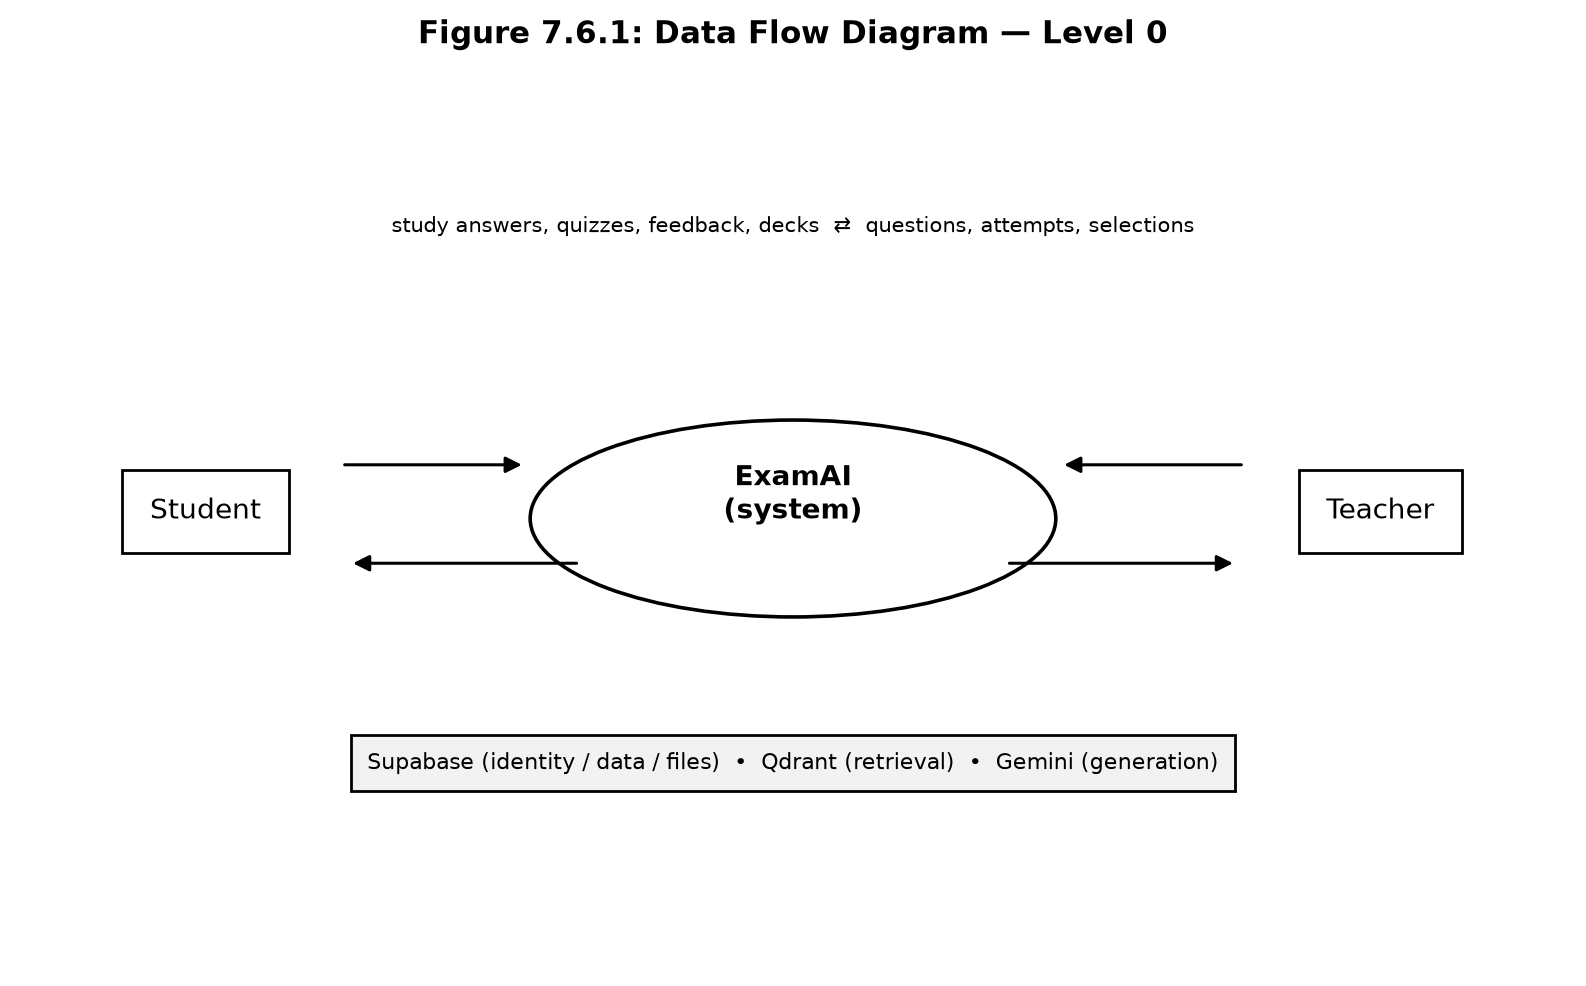
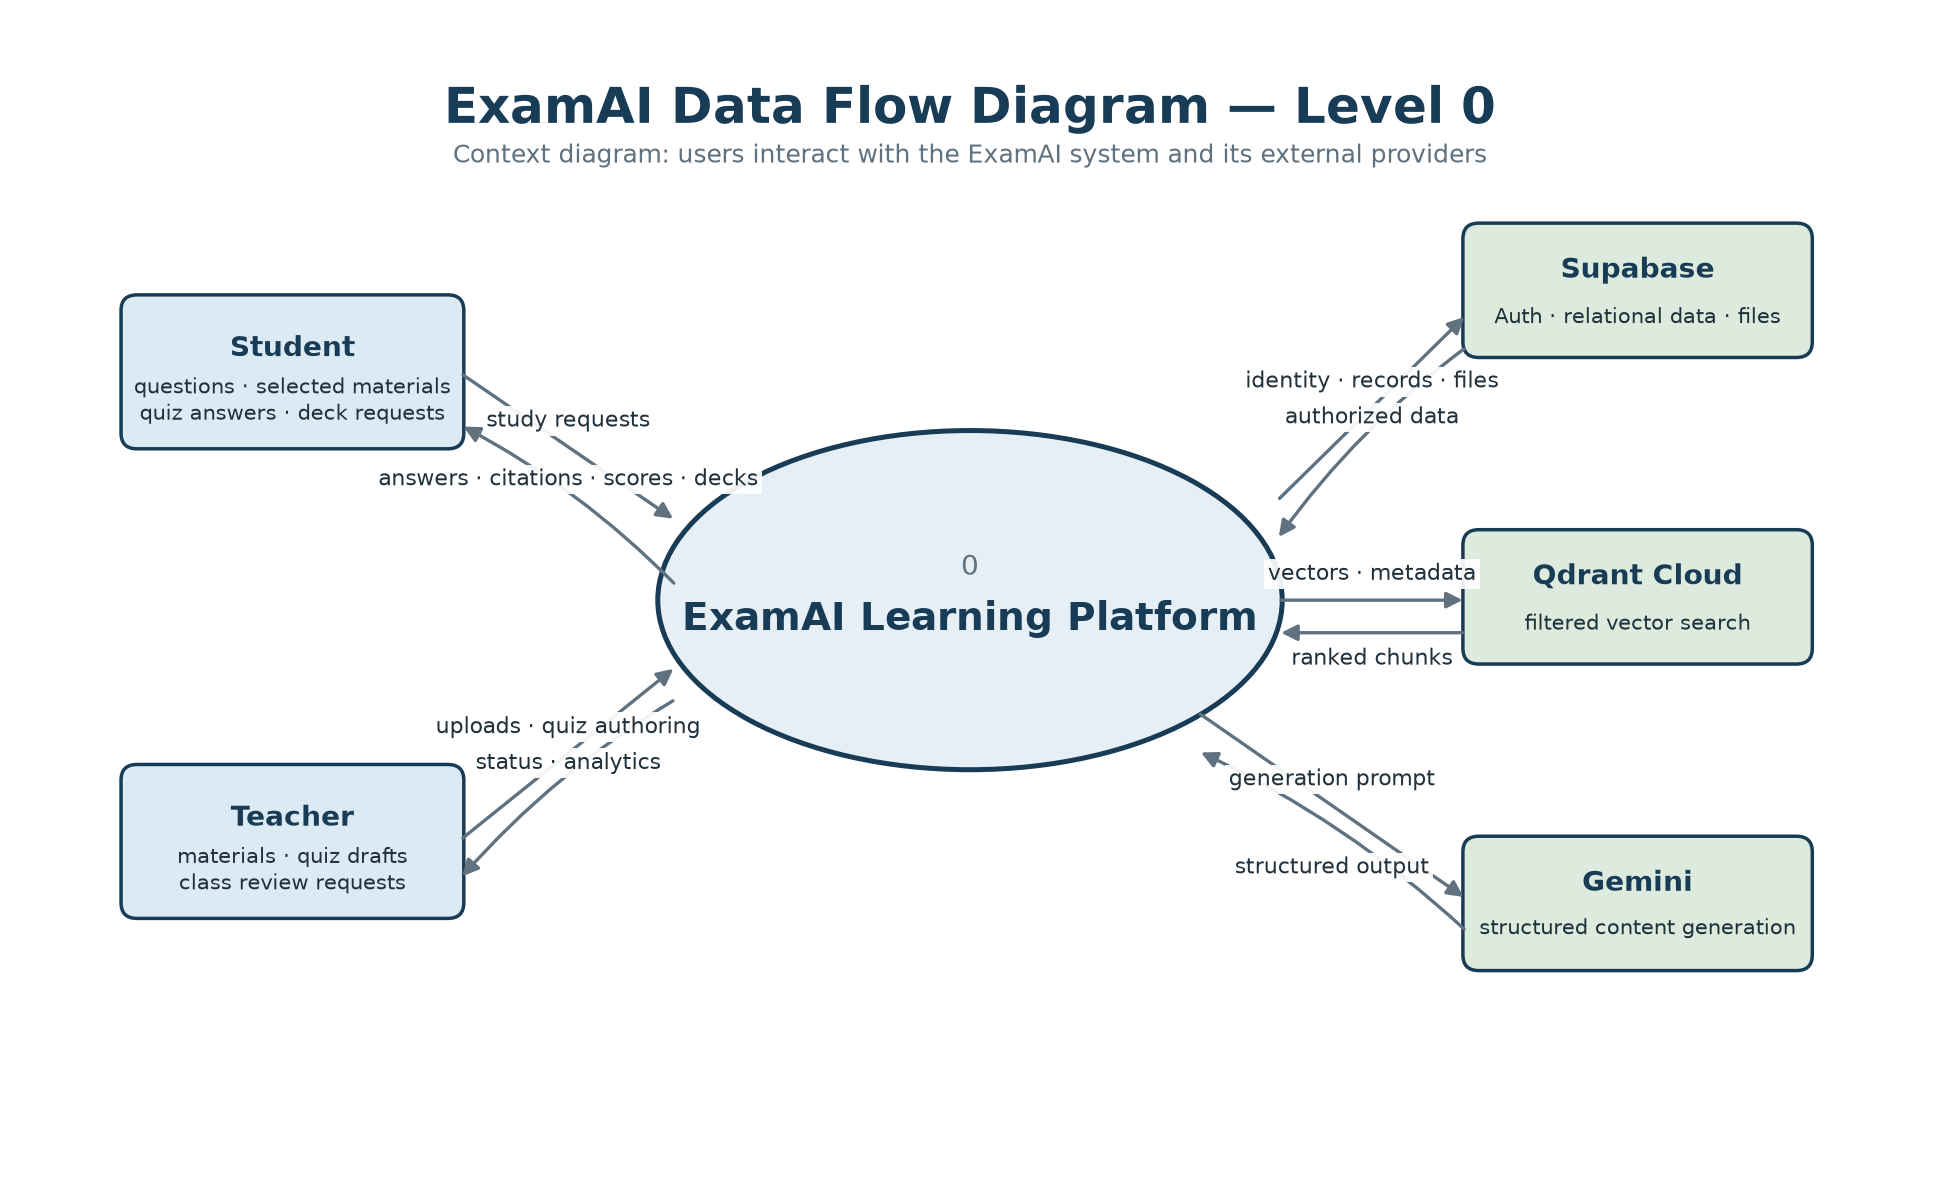
figures generated

diff --git a/SGP Report/Report Draft/generate_figures.py b/SGP Report/Report Draft/generate_figures.py
@@ -1,0 +1,367 @@
+"""Generate the Chapter 7 ExamAI diagrams as clean academic report figures.
+
+Run from the repository root with backend/venv/bin/python.
+"""
+from pathlib import Path
+
+import matplotlib
+
+matplotlib.use("Agg")
+import matplotlib.pyplot as plt
+from matplotlib.patches import FancyBboxPatch, Ellipse, Polygon, FancyArrowPatch
+
+
+OUT = Path(__file__).parent / "figures"
+OUT.mkdir(exist_ok=True)
+
+NAVY = "#183B56"
+BLUE = "#DCEAF4"
+PALE = "#F3F6F8"
+INK = "#23313B"
+GRAY = "#60717F"
+GOLD = "#F2C66D"
+GREEN = "#DCEBDD"
+RED = "#F3DDDA"
+WHITE = "#FFFFFF"
+
+plt.rcParams.update({
+    "font.family": "DejaVu Sans",
+    "font.size": 10,
+    "text.color": INK,
+    "axes.labelcolor": INK,
+})
+
+
+def canvas(title, subtitle=None, size=(11, 8), ylim=(0, 10)):
+    fig, ax = plt.subplots(figsize=size)
+    fig.patch.set_facecolor(WHITE)
+    ax.set_facecolor(WHITE)
+    ax.set_xlim(0, 14)
+    ax.set_ylim(*ylim)
+    ax.axis("off")
+    ax.text(7, ylim[1] - .35, title, ha="center", va="top", fontsize=18,
+            weight="bold", color=NAVY)
+    if subtitle:
+        ax.text(7, ylim[1] - .8, subtitle, ha="center", va="top", fontsize=9,
+                color=GRAY)
+    return fig, ax
+
+
+def box(ax, x, y, w, h, title, detail="", fc=PALE, ec=NAVY, title_size=10,
+        detail_size=8, radius=.12, lw=1.25):
+    patch = FancyBboxPatch((x, y), w, h,
+                           boxstyle=f"round,pad=0.04,rounding_size={radius}",
+                           facecolor=fc, edgecolor=ec, linewidth=lw)
+    ax.add_patch(patch)
+    ax.text(x+w/2, y+h*.66 if detail else y+h/2, title, ha="center", va="center",
+            fontsize=title_size, weight="bold", color=NAVY, wrap=True)
+    if detail:
+        ax.text(x+w/2, y+h*.30, detail, ha="center", va="center",
+                fontsize=detail_size, color=INK, wrap=True, linespacing=1.25)
+    return patch
+
+
+def arrow(ax, x1, y1, x2, y2, label=None, color=GRAY, rad=0, style="-|>", lw=1.2,
+          label_offset=(0, .15), linestyle="-"):
+    p = FancyArrowPatch((x1, y1), (x2, y2), arrowstyle=style,
+                        connectionstyle=f"arc3,rad={rad}", mutation_scale=12,
+                        linewidth=lw, color=color, linestyle=linestyle)
+    ax.add_patch(p)
+    if label:
+        ax.text((x1+x2)/2+label_offset[0], (y1+y2)/2+label_offset[1], label,
+                ha="center", va="center", fontsize=8, color=INK,
+                bbox=dict(facecolor=WHITE, edgecolor="none", pad=1.4, alpha=.92))
+    return p
+
+
+def save(fig, name):
+    fig.savefig(OUT/name, dpi=200, bbox_inches="tight", pad_inches=.2,
+                facecolor=WHITE)
+    plt.close(fig)
+
+
+def architecture():
+    fig, ax = canvas("ExamAI System Architecture",
+                     "Layered web application with teacher-owned materials and metadata-filtered retrieval",
+                     size=(12, 8.2))
+    # Layer bands
+    bands = [(7.8, "PRESENTATION", "#F7F9FB"), (6.05, "API / ROUTES", "#F1F5F8"),
+             (4.15, "APPLICATION SERVICES", "#F7F9FB"), (2.05, "DATA + EXTERNAL SERVICES", "#F1F5F8")]
+    for y, label, color in bands:
+        ax.add_patch(FancyBboxPatch((.35, y-.2), 13.3, 1.52,
+                       boxstyle="round,pad=.03,rounding_size=.1", facecolor=color,
+                       edgecolor="#D5DEE5", linewidth=.8, zorder=0))
+        ax.text(.58, y+1.05, label, fontsize=8, weight="bold", color=GRAY, va="center")
+    box(ax, 2.0, 7.95, 4.0, .75, "Student web client", "React + Vite", fc=BLUE)
+    box(ax, 8.0, 7.95, 4.0, .75, "Teacher web client", "React + Vite", fc=BLUE)
+    box(ax, 2.05, 6.23, 9.9, .8, "FastAPI routes", "Role dependencies · request validation · standard response envelope", fc=BLUE)
+    box(ax, .75, 4.35, 3.0, .95, "Subject & material", "membership · upload · status", fc=PALE)
+    box(ax, 4.0, 4.35, 3.0, .95, "Learning services", "RAG chat · flashcards · quizzes", fc=PALE)
+    box(ax, 7.25, 4.35, 3.0, .95, "Ingestion pipeline", "parse · chunk · embed · upsert", fc=PALE)
+    box(ax, 10.5, 4.35, 2.75, .95, "Analytics services", "class results · progress", fc=PALE)
+    box(ax, .55, 2.25, 3.0, .95, "Supabase", "Auth · Postgres · private Storage", fc=GREEN)
+    box(ax, 4.0, 2.25, 3.0, .95, "Qdrant Cloud", "one collection · filtered by subject + material", fc=GREEN, detail_size=7.5)
+    box(ax, 7.45, 2.25, 2.6, .95, "Gemini", "structured generation", fc=GREEN)
+    box(ax, 10.45, 2.25, 2.8, .95, "Local embedding model", "all-MiniLM-L6-v2", fc=GREEN, detail_size=7.5)
+    # Flow
+    arrow(ax, 4, 7.95, 5.5, 7.05)
+    arrow(ax, 10, 7.95, 8.5, 7.05)
+    arrow(ax, 4.2, 6.23, 2.3, 5.3)
+    arrow(ax, 6.0, 6.23, 5.5, 5.3)
+    arrow(ax, 8.0, 6.23, 8.7, 5.3)
+    arrow(ax, 9.8, 6.23, 11.8, 5.3)
+    arrow(ax, 2.3, 4.35, 2.05, 3.2, "authorized relational reads / writes", label_offset=(-.65, 0))
+    arrow(ax, 5.3, 4.35, 5.45, 3.2, "filtered retrieval / payloads", label_offset=(.8, 0))
+    arrow(ax, 8.1, 4.35, 8.75, 3.2, "generation", label_offset=(.35, 0))
+    arrow(ax, 9.0, 4.35, 11.5, 3.2, "vectors", label_offset=(.4, 0))
+    arrow(ax, 8.3, 4.35, 5.8, 3.2, "vector upsert", rad=.05, label_offset=(-.25, -.05))
+    ax.text(7, .65, "Subject authorization is enforced in services. Material vectors carry material_id, teacher_id and subject_id for scoped retrieval and citation attribution.",
+            ha="center", va="center", fontsize=8.5, color=GRAY, wrap=True)
+    save(fig, "fig71_architecture.png")
+
+
+def class_diagram():
+    fig, ax = canvas("ExamAI Domain Class Diagram",
+                     "Core relational entities and cardinalities reflected in the SQLAlchemy models",
+                     size=(12, 9.2), ylim=(0, 11))
+    boxes = {
+        "User": (.5, 8.3, 3.1, 1.65, "User", "id (PK)\nname · email · role"),
+        "Subject": (5.45, 8.3, 3.1, 1.65, "Subject", "id (PK)\nname"),
+        "SubjectTeacher": (.5, 5.75, 3.1, 1.65, "SubjectTeacher", "subject_id (PK, FK)\nteacher_id (PK, FK)"),
+        "StudentSubject": (5.45, 5.75, 3.1, 1.65, "StudentSubject", "subject_id (PK, FK)\nstudent_id (PK, FK)"),
+        "Material": (10.2, 8.3, 3.1, 1.65, "Material", "id (PK) · subject_id (FK)\nteacher_id (FK) · status · file"),
+        "Quiz": (10.2, 5.75, 3.1, 1.65, "Quiz", "id (PK) · subject_id (FK)\nteacher_id (FK) · topic · status"),
+        "QuizQuestion": (10.2, 3.25, 3.1, 1.65, "QuizQuestion", "id (PK) · quiz_id (FK)\nquestion · options · correct_option"),
+        "QuizAttempt": (6.0, 3.25, 3.1, 1.65, "QuizAttempt", "id (PK) · quiz_id (FK)\nstudent_id (FK) · answers · score"),
+        "FlashcardDeck": (1.0, 3.25, 3.1, 1.65, "FlashcardDeck", "id (PK) · student_id (FK)\nsubject_id (FK) · source_material_ids"),
+        "Flashcard": (1.0, .7, 3.1, 1.65, "Flashcard", "id (PK) · deck_id (FK)\nfront · back · mastery_state"),
+    }
+    centers={}
+    for key,(x,y,w,h,t,d) in boxes.items():
+        box(ax,x,y,w,h,t,d,fc=BLUE,title_size=10,detail_size=8)
+        centers[key]=(x+w/2,y+h/2)
+    # Multiplicities and relationships
+    arrow(ax,3.6,8.95,5.45,8.95,"teacher membership",label_offset=(0,.28))
+    arrow(ax,3.6,6.55,5.45,6.55,"joins subject",label_offset=(0,.28))
+    arrow(ax,2.0,8.3,2.0,7.4,"1",label_offset=(.28,0))
+    arrow(ax,6.95,8.3,6.95,7.4,"1",label_offset=(.28,0))
+    arrow(ax,3.6,6.1,5.45,6.1,"student enrollment",label_offset=(0,.28))
+    arrow(ax,6.25,8.3,6.25,7.4,"1",label_offset=(.3,0))
+    arrow(ax,8.55,9.1,10.2,9.1,"1 subject : many materials",label_offset=(0,.28))
+    arrow(ax,8.55,8.65,10.2,6.8,"1 subject : many quizzes",rad=.04,label_offset=(.55,0))
+    arrow(ax,11.75,5.75,11.75,4.9,"1 quiz : many questions",label_offset=(.9,0))
+    arrow(ax,10.2,6.0,9.1,4.45,"1 quiz : many attempts",label_offset=(.45,.18))
+    arrow(ax,7.55,5.75,7.55,4.9,"student",label_offset=(.45,0))
+    arrow(ax,2.55,3.25,2.55,2.35,"1 deck : many cards",label_offset=(1.0,0))
+    # Deck ownership and subject scope are explicit model relationships.
+    arrow(ax,3.6,3.85,4.1,3.85,"student_id",label_offset=(0,.2))
+    arrow(ax,5.55,8.3,3.95,4.9,"subject_id",rad=.2,label_offset=(-.45,.1))
+    # Notes
+    ax.text(7, .32, "A subject can have multiple teachers and students through join tables. Material and quiz records each identify one owning teacher and one subject.",
+            ha="center", fontsize=8.5, color=GRAY, wrap=True)
+    save(fig,"fig72_class.png")
+
+
+def usecase():
+    fig, ax = canvas("ExamAI Use-Case Diagram",
+                     "Student and teacher functions within the ExamAI system boundary",
+                     size=(12.5, 10), ylim=(0, 11.5))
+    # UML-style dashed platform boundary; actors remain outside it.
+    ax.add_patch(FancyBboxPatch((2.5,.55),9.4,9.75,boxstyle="round,pad=.02,rounding_size=0",
+                    facecolor=WHITE,edgecolor=INK,linewidth=1.4,linestyle=(0,(6,4))))
+    ax.text(7.2,10.0,"ExamAI Platform",ha="center",va="center",fontsize=12,weight="bold",color=INK)
+    def actor(x,y,label):
+        ax.add_patch(Ellipse((x,y+.5),.34,.34,facecolor=WHITE,edgecolor=INK,linewidth=1.3))
+        ax.plot([x,x],[y+.33,y-.38],color=INK,lw=1.35)
+        ax.plot([x-.31,x+.31],[y+.08,y+.08],color=INK,lw=1.35)
+        ax.plot([x,x-.26],[y-.38,y-.78],color=INK,lw=1.35)
+        ax.plot([x,x+.26],[y-.38,y-.78],color=INK,lw=1.35)
+        ax.text(x,y-.98,label,ha="center",va="top",fontsize=9.2,weight="bold",color=INK)
+    actor(1.25,7.7,"Student")
+    actor(1.25,3.5,"Teacher")
+    # One aligned column keeps each UML association independent and readable.
+    cases=[(7.2,9.15,"Sign in / sign out"),(7.2,8.35,"View enrolled subjects"),
+           (7.2,7.55,"Select approved materials"),(7.2,6.75,"Ask cited RAG questions"),
+           (7.2,5.95,"Generate personal flashcards"),(7.2,5.15,"Take published quizzes"),
+           (7.2,4.15,"Upload / manage materials"),(7.2,3.35,"Author / publish quizzes"),
+           (7.2,2.55,"Review class analytics"),(7.2,1.75,"Generate quiz drafts")]
+    for x,y,label in cases:
+        ax.add_patch(Ellipse((x,y),3.5,.64,facecolor=WHITE,edgecolor=INK,linewidth=1.15))
+        ax.text(x,y,label,ha="center",va="center",fontsize=8.2,color=INK,wrap=True)
+    # Actor association lines are direct and role-specific, without arrowheads.
+    # Compact actor trunks outside the boundary keep associations from crossing
+    # through neighboring use-case ovals.
+    ax.plot([1.55,2.3],[8.4,8.4],color=INK,lw=.75)
+    ax.plot([2.3,2.3],[5.15,9.15],color=INK,lw=.75)
+    for x,y,_ in cases[:6]:
+        ax.plot([2.3,x-1.75],[y,y],color=INK,lw=.72)
+    ax.plot([1.55,2.3],[3.8,3.8],color=INK,lw=.75)
+    ax.plot([2.3,2.3],[2.55,4.15],color=INK,lw=.75)
+    for x,y,_ in cases[6:]:
+        ax.plot([2.3,x-1.75],[y,y],color=INK,lw=.72)
+    ax.text(7.2,.85,"Subject-scoped operations require teacher assignment or student enrollment.",
+            ha="center",fontsize=7.8,color=GRAY)
+    save(fig,"fig73_usecase.png")
+
+
+def sequence():
+    fig, ax = canvas("RAG Chat Sequence Diagram",
+                     "Selected-material retrieval with authorization and source attribution",
+                     size=(13, 9.2), ylim=(0, 11))
+    xs=[1.15,3.4,5.7,8.0,10.3,12.7]
+    labels=["Student\nBrowser","FastAPI\nChat Route","Chat / Retrieval\nServices","Postgres\n(Supabase)","Qdrant\nCloud","Gemini"]
+    for x,l in zip(xs,labels):
+        box(ax,x-.78,9.0,1.56,.9,l,fc=BLUE,title_size=8.5)
+        ax.plot([x,x],[1.3,9.0],color="#8796A1",lw=.9,linestyle=(0,(3,3)))
+    msgs=[(1.15,3.4,8.05,"Question + subject + selected material IDs"),
+          (3.4,5.7,7.35,"Authenticate student; validate request"),
+          (5.7,8.0,6.65,"Check enrollment; validate ready materials"),
+          (5.7,5.7,5.95,"Embed question with local MiniLM model"),
+          (5.7,10.3,5.25,"Query subject + selected material filter"),
+          (10.3,5.7,4.55,"Top chunks + payload metadata"),
+          (5.7,12.7,3.85,"Generate structured answer from numbered context"),
+          (12.7,5.7,3.15,"Answer text + source markers"),
+          (5.7,5.7,2.45,"Resolve markers to teacher, file, locator"),
+          (5.7,3.4,1.8,"Answer + attributed citations"),
+          (3.4,1.15,1.2,"JSON response")]
+    for i,(a,b,y,label) in enumerate(msgs):
+        if a==b:
+            ax.annotate("",xy=(a+.6,y),xytext=(a,y),arrowprops=dict(arrowstyle="-|>",color=GRAY,lw=1.1))
+            ax.text(a+.32,y+.13,label,ha="center",va="bottom",fontsize=7.6,color=INK)
+        else:
+            arrow(ax,a,y,b,y,label,color=NAVY,label_offset=(0,.17),lw=1.0)
+    ax.text(7,.45,"If no selected chunk contains text, the service returns a no-evidence answer with no citations.",
+            ha="center",fontsize=8.2,color=GRAY)
+    save(fig,"fig74_sequence.png")
+
+
+def activity():
+    fig, ax = canvas("Teacher Material Ingestion Activity",
+                     "Processing state is version-guarded; indexed payloads preserve ownership and source location",
+                     size=(10, 12), ylim=(0, 14))
+    # Swimlanes
+    lanes=[(.45,4.25,"Teacher / API"),(4.85,8.65,"Ingestion Worker"),(9.25,13.05,"Supabase / Qdrant")]
+    for x1,x2,label in lanes:
+        ax.add_patch(FancyBboxPatch((x1,.5),x2-x1,12.45,boxstyle="round,pad=.03,rounding_size=.08",
+                       facecolor="#FBFCFD",edgecolor="#D5DEE5",linewidth=.8,zorder=0))
+        ax.text((x1+x2)/2,12.65,label,ha="center",va="center",fontsize=9,weight="bold",color=NAVY)
+    def task(x,y,text,fc=BLUE,w=3.0,h=.68):
+        box(ax,x,y,w,h,text,fc=fc,title_size=8.2,radius=.14)
+    # Main path uses short lane-to-lane handoffs, with ordered worker steps.
+    task(.95,11.35,"Upload PDF / PPTX / DOCX")
+    task(5.35,11.35,"Validate type + size")
+    task(9.7,11.35,"Store private file; create record")
+    task(5.35,9.95,"Parse text + source locators")
+    task(5.35,8.75,"Normalize and chunk by format")
+    task(5.35,7.55,"Create local embeddings")
+    task(9.7,7.55,"Upsert vectors + payloads",fc=GREEN)
+    task(5.35,6.15,"Check current version")
+    task(9.7,4.8,"Mark ready in Postgres",fc=GREEN)
+    task(.95,4.8,"Show ready status")
+    arrow(ax,3.95,11.7,5.35,11.7)
+    arrow(ax,8.35,11.7,9.7,11.7)
+    arrow(ax,11.2,11.35,8.35,10.3,rad=.08)
+    arrow(ax,6.85,9.95,6.85,9.43)
+    arrow(ax,6.85,8.75,6.85,8.23)
+    arrow(ax,8.35,7.9,9.7,7.9)
+    arrow(ax,9.7,7.55,8.35,6.5,rad=.08)
+    # Version decision
+    ax.add_patch(Polygon([[5.95,5.45],[6.85,5.9],[7.75,5.45],[6.85,5.0]],closed=True,facecolor=GOLD,edgecolor=NAVY,lw=1))
+    ax.text(6.85,5.45,"Current?",ha="center",va="center",fontsize=7.5,weight="bold",color=NAVY)
+    arrow(ax,6.85,6.15,6.85,5.9)
+    arrow(ax,7.75,5.45,9.7,5.15,"Yes",label_offset=(0,.18))
+    arrow(ax,9.7,5.15,3.95,5.15,rad=.08)
+    task(5.35,2.5,"Mark failed; allow retry",fc=RED)
+    task(9.7,2.5,"Delete file + record + vectors",fc=RED)
+    arrow(ax,6.85,5.0,6.85,3.18,"No / error",label_offset=(.5,0))
+    arrow(ax,8.35,2.85,9.7,2.85)
+    ax.text(7,.95,"Version guards keep stale workers from marking deleted or superseded materials ready.",
+            ha="center",fontsize=8,color=GRAY)
+    save(fig,"fig75_activity.png")
+
+
+def dfd0():
+    fig, ax = canvas("ExamAI Data Flow Diagram — Level 0",
+                     "Context diagram: users interact with the ExamAI system and its external providers",
+                     size=(12, 7.2), ylim=(0, 8.5))
+    # entities and system
+    box(ax,.65,5.4,2.5,1.1,"Student","questions · selected materials\nquiz answers · deck requests",fc=BLUE,detail_size=7.6)
+    box(ax,.65,1.8,2.5,1.1,"Teacher","materials · quiz drafts\nclass review requests",fc=BLUE,detail_size=7.6)
+    ax.add_patch(Ellipse((7,4.2),4.7,2.6,facecolor="#E6EFF5",edgecolor=NAVY,lw=1.8))
+    ax.text(7,4.45,"0",ha="center",va="center",fontsize=10,color=GRAY)
+    ax.text(7,4.05,"ExamAI Learning Platform",ha="center",va="center",fontsize=14,weight="bold",color=NAVY)
+    box(ax,10.75,6.1,2.55,.95,"Supabase","Auth · relational data · files",fc=GREEN,detail_size=7.6)
+    box(ax,10.75,3.75,2.55,.95,"Qdrant Cloud","filtered vector search",fc=GREEN,detail_size=7.6)
+    box(ax,10.75,1.4,2.55,.95,"Gemini","structured content generation",fc=GREEN,detail_size=7.6)
+    arrow(ax,3.15,5.95,4.8,4.8,"study requests",label_offset=(0,.2))
+    arrow(ax,4.8,4.3,3.15,5.55,"answers · citations · scores · decks",rad=.08,label_offset=(0,.2))
+    arrow(ax,3.15,2.35,4.8,3.7,"uploads · quiz authoring",label_offset=(0,.2))
+    arrow(ax,4.8,3.45,3.15,2.05,"status · analytics",rad=.08,label_offset=(0,.2))
+    arrow(ax,9.3,4.95,10.75,6.4,"identity · records · files",label_offset=(0,.2))
+    arrow(ax,10.75,6.15,9.3,4.65,"authorized data",rad=.08,label_offset=(0,.2))
+    arrow(ax,9.3,4.2,10.75,4.2,"vectors · metadata",label_offset=(0,.2))
+    arrow(ax,10.75,3.95,9.3,3.95,"ranked chunks",label_offset=(0,-.2))
+    arrow(ax,8.7,3.35,10.75,1.9,"generation prompt",label_offset=(0,.2))
+    arrow(ax,10.75,1.65,8.7,3.05,"structured output",rad=.08,label_offset=(0,-.2))
+    save(fig,"fig761_dfd0.png")
+
+
+def dfd1():
+    fig, ax = canvas("ExamAI Data Flow Diagram — Level 1",
+                     "Student learning, teacher authoring, retrieval and persistent data",
+                     size=(15, 10), ylim=(0, 11))
+    box(ax,.45,7.5,1.8,.95,"Student",fc=PALE)
+    box(ax,.45,2.5,1.8,.95,"Teacher",fc=PALE)
+    def process(cx,cy,number,label):
+        ax.add_patch(Ellipse((cx,cy),2.4,1.8,facecolor=WHITE,edgecolor=INK,lw=1.2))
+        ax.plot([cx-1.0,cx+1.0],[cy+.52,cy+.52],color=INK,lw=.8)
+        ax.text(cx,cy+.68,number,ha="center",va="center",fontsize=9,weight="bold",color=INK)
+        ax.text(cx,cy-.14,label,ha="center",va="center",fontsize=9,weight="bold",color=INK,wrap=True)
+    # Three clear lanes leave room for labeled flows and avoid stacking unrelated arrows.
+    process(4.7,7.6,"1.0","Authenticate +\nsubject access")
+    process(8.8,7.6,"2.0","Ingest teacher\nmaterials")
+    process(8.8,4.2,"3.0","RAG chat +\ncitations")
+    process(4.7,4.2,"4.0","Quizzes +\nflashcards")
+    process(12.0,3.5,"5.0","Class analytics")
+    # Data stores share a low, evenly spaced row.
+    def store(x,y,w,title,detail):
+        ax.plot([x,x+w],[y,y],color=INK,lw=1.05)
+        ax.plot([x,x+w],[y+.72,y+.72],color=INK,lw=1.05)
+        ax.plot([x,x],[y,y+.72],color=INK,lw=1.05)
+        ax.text(x+w/2,y+.48,title,ha="center",va="center",fontsize=8,weight="bold",color=INK)
+        ax.text(x+w/2,y+.18,detail,ha="center",va="center",fontsize=7,color=GRAY)
+    store(2.5,.9,3.2,"D1 · Postgres","users · access · learning records")
+    store(6.6,.9,3.2,"D2 · Qdrant","vectors · ownership metadata")
+    store(10.7,.9,2.8,"D3 · Storage","private source files")
+    box(ax,11.9,7.5,1.9,.85,"Gemini API","generation",fc="#F8EBCB",detail_size=7.5)
+    # External actor exchanges.
+    arrow(ax,2.25,7.95,3.48,7.8,"study request",label_offset=(0,.22))
+    arrow(ax,3.48,7.35,2.25,7.55,"authorized response",label_offset=(0,-.22))
+    arrow(ax,2.25,3.05,3.48,4.25,"authoring request",label_offset=(0,.2))
+    arrow(ax,3.48,3.75,2.25,2.85,"scores / feedback",label_offset=(0,-.22))
+    # Relational and vector stores; separated vertical paths keep labels legible.
+    arrow(ax,4.7,6.7,4.7,1.68,"membership / access",label_offset=(1.0,0))
+    arrow(ax,4.7,3.3,4.7,1.68,"quiz / deck records",label_offset=(-1.0,0))
+    arrow(ax,8.8,6.7,8.8,1.68,"vector upsert",label_offset=(.62,0))
+    arrow(ax,8.8,3.3,8.8,1.68,"filtered query",label_offset=(-.62,0))
+    arrow(ax,9.25,1.68,9.25,3.3,"ranked chunks + metadata",label_offset=(1.0,0))
+    # Generation, file storage, and analytics paths.
+    arrow(ax,10.2,7.85,12.0,7.95,"generation prompt",label_offset=(0,.22))
+    arrow(ax,12.0,7.55,10.2,7.45,"structured output",label_offset=(0,-.22))
+    arrow(ax,10.0,4.7,11.9,7.5,"retrieved context",rad=-.08,label_offset=(.55,.08))
+    arrow(ax,9.9,7.2,10.7,1.68,"private file write",rad=-.06,label_offset=(.7,.03))
+    arrow(ax,10.0,3.5,7.5,1.68,"class-result reads",rad=0,label_offset=(0,.2))
+    ax.text(7,.25,"Qdrant retrieval is scoped by subject_id and the student's selected material_ids; citation metadata identifies the source teacher and material.",
+            ha="center",fontsize=8,color=GRAY)
+    save(fig,"fig762_dfd1.png")
+
+
+if __name__ == "__main__":
+    architecture()
+    class_diagram()
+    usecase()
+    sequence()
+    activity()
+    dfd0()
+    dfd1()
+    print(f"Generated seven ExamAI report figures in {OUT}")

diff --git a/SGP Report/Report Draft/Chapter 07 - System Design.md b/SGP Report/Report Draft/Chapter 07 - System Design.md
@@ -33,7 +33,7 @@ The domain centres on Subject: teachers join it through membership, students thr
 
 ![Figure 7.3: Use-case diagram](figures/fig73_usecase.png)
 
-Both roles share the secure authentication boundary; every subject-scoped use case includes a membership/enrollment check.
+Both roles authenticate through the same sign-in flow. Subject-scoped requests are authorized against the caller’s teacher assignment or student enrollment before protected data is returned or changed.
 
 ## 7.4 Sequence Diagram
 
@@ -57,7 +57,7 @@ At the highest level, students and teachers interact with ExamAI. ExamAI communi
 
 ### 7.6.2 Level 1 DFD
 
-The level-one flow separates authentication, subject access, material ingestion, RAG chat, quiz management, flashcard generation, and analytics. Authorization is a cross-cutting control on every subject-scoped flow. Material metadata flows from Postgres into Qdrant payloads during ingestion and returns from Qdrant as citation metadata during chat.
+The level-one flow separates authentication, subject access, material ingestion, RAG chat, quiz management, flashcard generation, and analytics. Authorization is checked by the services handling subject-scoped requests. During ingestion, material, teacher, and subject identifiers are stored in each Qdrant payload; retrieval filters by subject and selected material identifiers, and citation resolution uses the returned payload metadata.
 
 ![Figure 7.6.2: Level 1 DFD](figures/fig762_dfd1.png)
 
